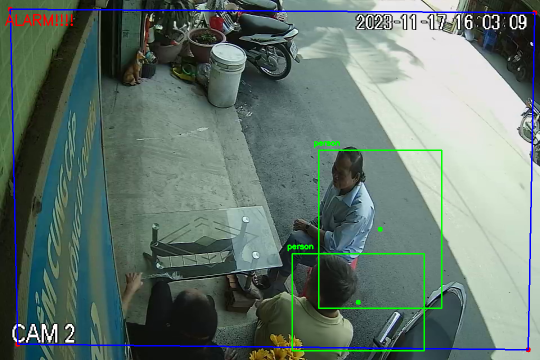
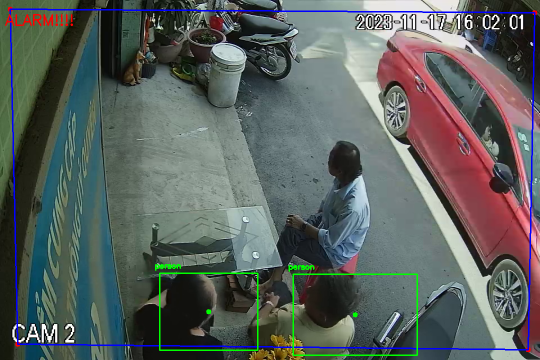
regionDetectYolov8

diff --git a/regionDetectYolov8.py b/regionDetectYolov8.py
@@ -12,13 +12,17 @@ from sendEmail import send_email
 import multiprocessing
 from PIL import Image
 from datetime import datetime
+import json
+
 password = "wnmd msav gljs qofz"
-from_email = "congdanhzer0x2002@gmail.com"  # must match the email used to generate the password
-to_email = "ddanh14372@gmail.com"  # receiver email
+from_email = "congdanhzer0x2002@gmail.com"
+to_email = "ddanh14372@gmail.com"
 
 server = smtplib.SMTP('smtp.gmail.com: 587')
 server.starttls()
 server.login(from_email, password)
+
+points = []  # List to store polygon points
 
 
 class ObjectDetection(threading.Thread):
@@ -30,11 +34,11 @@ class ObjectDetection(threading.Thread):
         self.annotator = None
         self.start_time = 0
         self.end_time = 0
-
-        # device information
         self.device = 'cuda' if torch.cuda.is_available() else 'cpu'
         self.last_alert = None
         self.alert_each = 15  # seconds
+        self.detected_centroids = []
+        self.detect = None
 
     def predict(self, im0):
         results = self.model(im0, device='0')
@@ -59,14 +63,57 @@ class ObjectDetection(threading.Thread):
 
     def plot_bboxes(self, results, im0):
         class_ids = []
+        self.detected_centroids = []  # Reset detected centroids
         self.annotator = Annotator(im0, 3, results[0].names)
         boxes = results[0].boxes.xyxy.cpu()
         clss = results[0].boxes.cls.cpu().tolist()
         names = results[0].names
         for box, cls in zip(boxes, clss):
             class_ids.append(cls)
+            centroid_x = int((box[0] + box[2]) / 2)
+            centroid_y = int((box[1] + box[3]) / 2)
+            self.detected_centroids.append((centroid_x, centroid_y))
             self.annotator.box_label(box, label=names[int(cls)], color=colors(int(cls), True))
         return im0, class_ids
+
+    def draw_polygon(self, frame, points):
+        for point in points:
+            frame = cv2.circle(frame, tuple(point), 5, (0, 0, 255), -1)
+        if len(points) > 1:
+            frame = cv2.polylines(frame, [np.array(points)], isClosed=False, color=(255, 0, 0), thickness=2)
+        return frame
+
+    def draw_centroids(self, frame, centroids):
+        for centroid in centroids:
+            cv2.circle(frame, centroid, 5, (0, 255, 0), -1)
+
+    def mouse_callback(self, event, x, y, flags, param):
+        if event == cv2.EVENT_LBUTTONDOWN:
+            points.append([x, y])
+
+    def connect_last_point(self):
+        if len(points) > 2:
+            points.append(points[0])
+
+    def is_centroid_inside_polygon(self, centroid):
+        if len(points) < 5 or self.detect is not True:
+            return False
+        return cv2.pointPolygonTest(np.array(points), centroid, False) >= 0
+
+    def save_polygon_to_json(self):
+        if len(points) > 2:
+            with open('polygon_points.json', 'w') as json_file:
+                json.dump(points, json_file)
+
+    def load_polygon_from_json(self):
+        try:
+            with open('polygon_points.json', 'r') as json_file:
+                loaded_points = json.load(json_file)
+                points.clear()
+                points.extend(loaded_points)
+                print("Polygon loaded successfully.")
+        except FileNotFoundError:
+            print("Polygon file not found.")
 
     def run(self):
         cap = cv2.VideoCapture(self.capture_index)
@@ -76,25 +123,48 @@ class ObjectDetection(threading.Thread):
         assert cap.isOpened()
 
         frame_count = 0
+
         while True:
             self.start_time = time()
             ret, im0 = cap.read()
             assert ret
+            im1 = cv2.resize(im0, (width, height))
+            # Draw the polygon
+            im0 = self.draw_polygon(im1, points)
+
+            # Predict and plot bounding boxes
             results = self.predict(im0)
             im0, class_ids = self.plot_bboxes(results, im0)
 
             if len(class_ids) > 0:
-                self.alert(img=im0, object_detected=len(class_ids))
+                for centroid in self.detected_centroids:
+                    if self.is_centroid_inside_polygon(centroid):
+                        self.alert(img=im0, object_detected=len(class_ids))
+                        break  # Only alert once for any detected object inside the polygon
 
             self.display_fps(im0)
-            im1 = cv2.resize(im0, (width, height))
+
+            # Draw centroids
+            self.draw_centroids(im0, self.detected_centroids)
+
             cv2.imshow('YOLOv8 Detection', im1)
 
             frame_count += 1
 
-            if cv2.waitKey(5) & 0xFF == ord("q"):
+            key = cv2.waitKey(5)
+            if key == ord("q"):
                 break
+            elif key == ord("d"):
+                self.connect_last_point()
+                self.detect = True
+            elif key == ord("s"):
+                self.save_polygon_to_json()
+            elif key == ord("l"):
+                self.load_polygon_from_json()
+                self.detect = True
 
+            cv2.namedWindow('YOLOv8 Detection')
+            cv2.setMouseCallback('YOLOv8 Detection', self.mouse_callback)
         cap.release()
         cv2.destroyAllWindows()
         server.quit()

diff --git a/yolodetect.py b/yolodetect.py
@@ -6,7 +6,8 @@ from telegram_utils import send_telegram
 import datetime
 import threading
 import time
-
+from PIL import Image
+from datetime import datetime
 def isInside(points, centroid):
     polygon = Polygon(points)
     centroid = Point(centroid)
@@ -64,12 +65,20 @@ class YoloDetect():
         while True:
             if self.alert_queue:
                 alert_data = self.alert_queue.pop(0)
-                if alert_data:
-                    img, points = alert_data
-                    cv2.putText(img, "ALARM!!!!", (10, 50), cv2.FONT_HERSHEY_SIMPLEX, 1, (0, 0, 255), 2)
-                    cv2.imwrite("alert.png", cv2.resize(img, dsize=None, fx=0.5, fy=0.5))
-                    send_telegram(photo_path="alert.png")
-            time.sleep(0.1)  # Adjust sleep time as needed to avoid busy waiting
+                if (self.last_alert is None) or (
+                        (datetime.utcnow() - self.last_alert).total_seconds() > self.alert_telegram_each):
+                    self.last_alert = datetime.utcnow()
+                    if alert_data:
+                        img, points = alert_data
+                        cv2.putText(img, "ALARM!!!!", (10, 50), cv2.FONT_HERSHEY_SIMPLEX, 1, (0, 0, 255), 2)
+                        cv2.imwrite("alert.png", cv2.resize(img, dsize=None, fx=0.5, fy=0.5))
+                        send_telegram(photo_path="alert.png")
+                        img = Image.open('D:/BaseProject/BP/alert.png')
+                        current_date = datetime.now()
+                        timestamp = current_date.strftime("%d%b%Y_%Hh%Mm%Ss")
+                        filename = f"alert_{timestamp}.png"
+                        img.save('detected/' + filename)
+            time.sleep(0.1)
 
     def alert(self, img, points):
         self.alert_queue.append((img.copy(), points))
